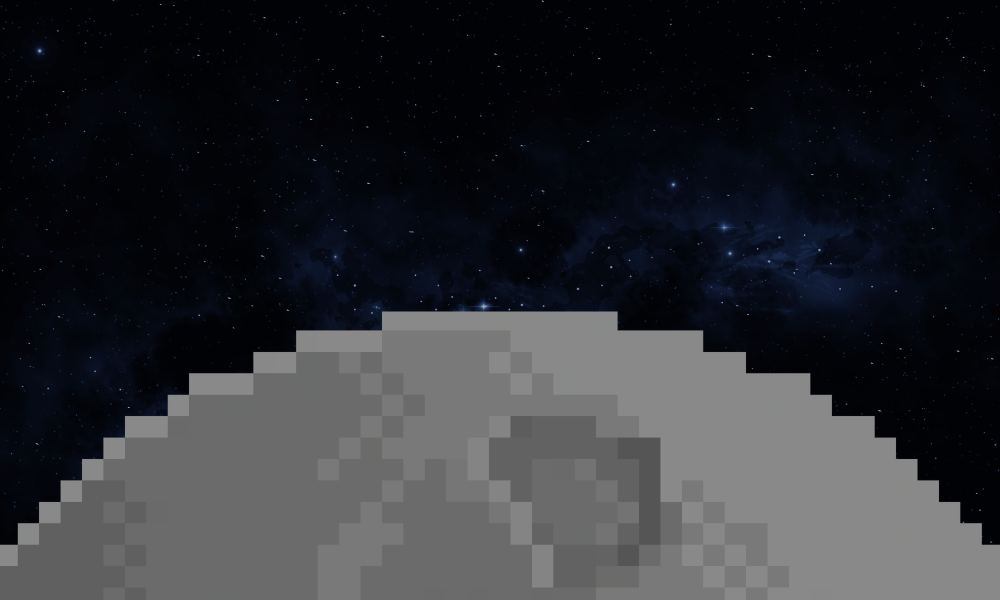
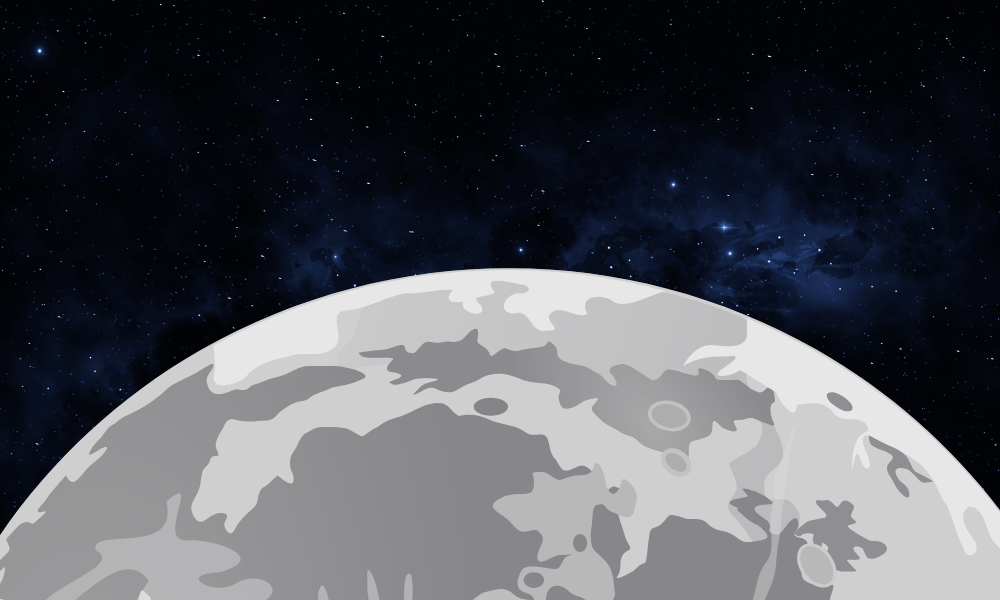
Initial commit

diff --git a/main2.py b/main2.py
@@ -65,7 +65,7 @@ SHATTER_IMAGES = {
 }
 
 CANNON_IMG = load_img("assets/cannon/cannon.png")
-#GROUND_IMG = load_img("assets/ground/ground.png")
+GROUND_IMG = load_img("assets/ground/ground.png")
 
 LIQUID_IMAGES = {
     "Water": load_img("assets/liquid/water.png"),
@@ -311,8 +311,8 @@ def draw_scene(mouse_x, mouse_y):
     screen.blit(bg, (0, 0))
 
     # Ground
-    #ground_img = pygame.transform.scale(GROUND_IMG, (SIDEBAR_X, SCREEN_HEIGHT - GROUND_Y))
-    #screen.blit(ground_img, (0, GROUND_Y))
+    ground_img = pygame.transform.scale(GROUND_IMG, (SIDEBAR_X, SCREEN_HEIGHT - GROUND_Y))
+    screen.blit(ground_img, (0, GROUND_Y))
 
     # NEW
     if liquid_mode:
